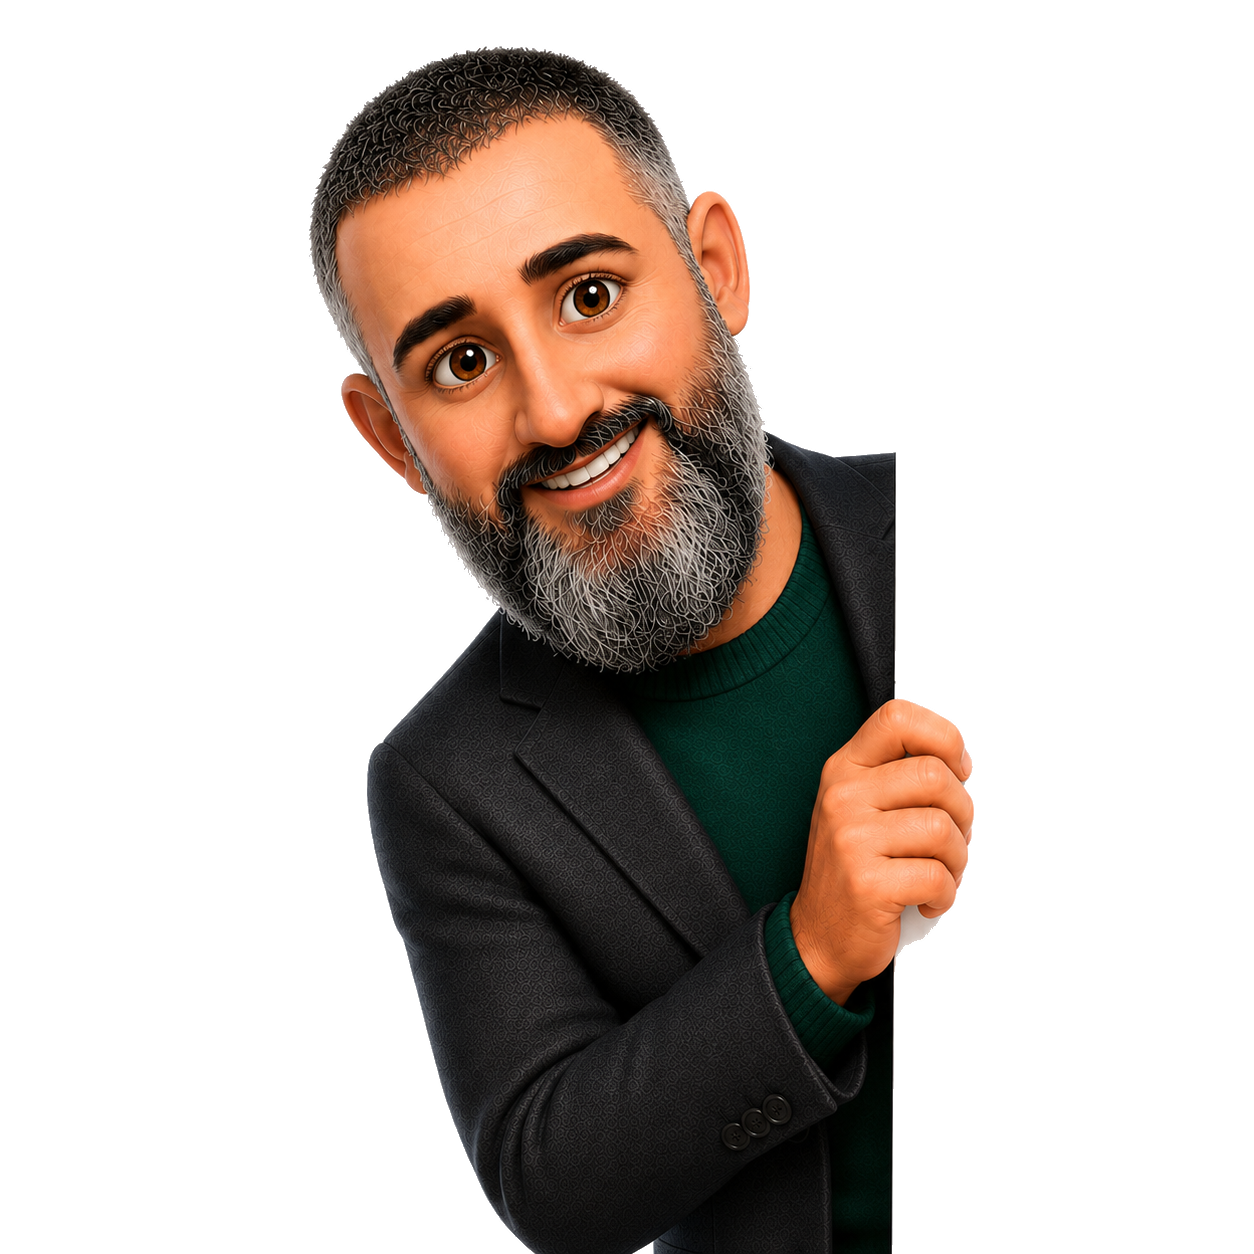
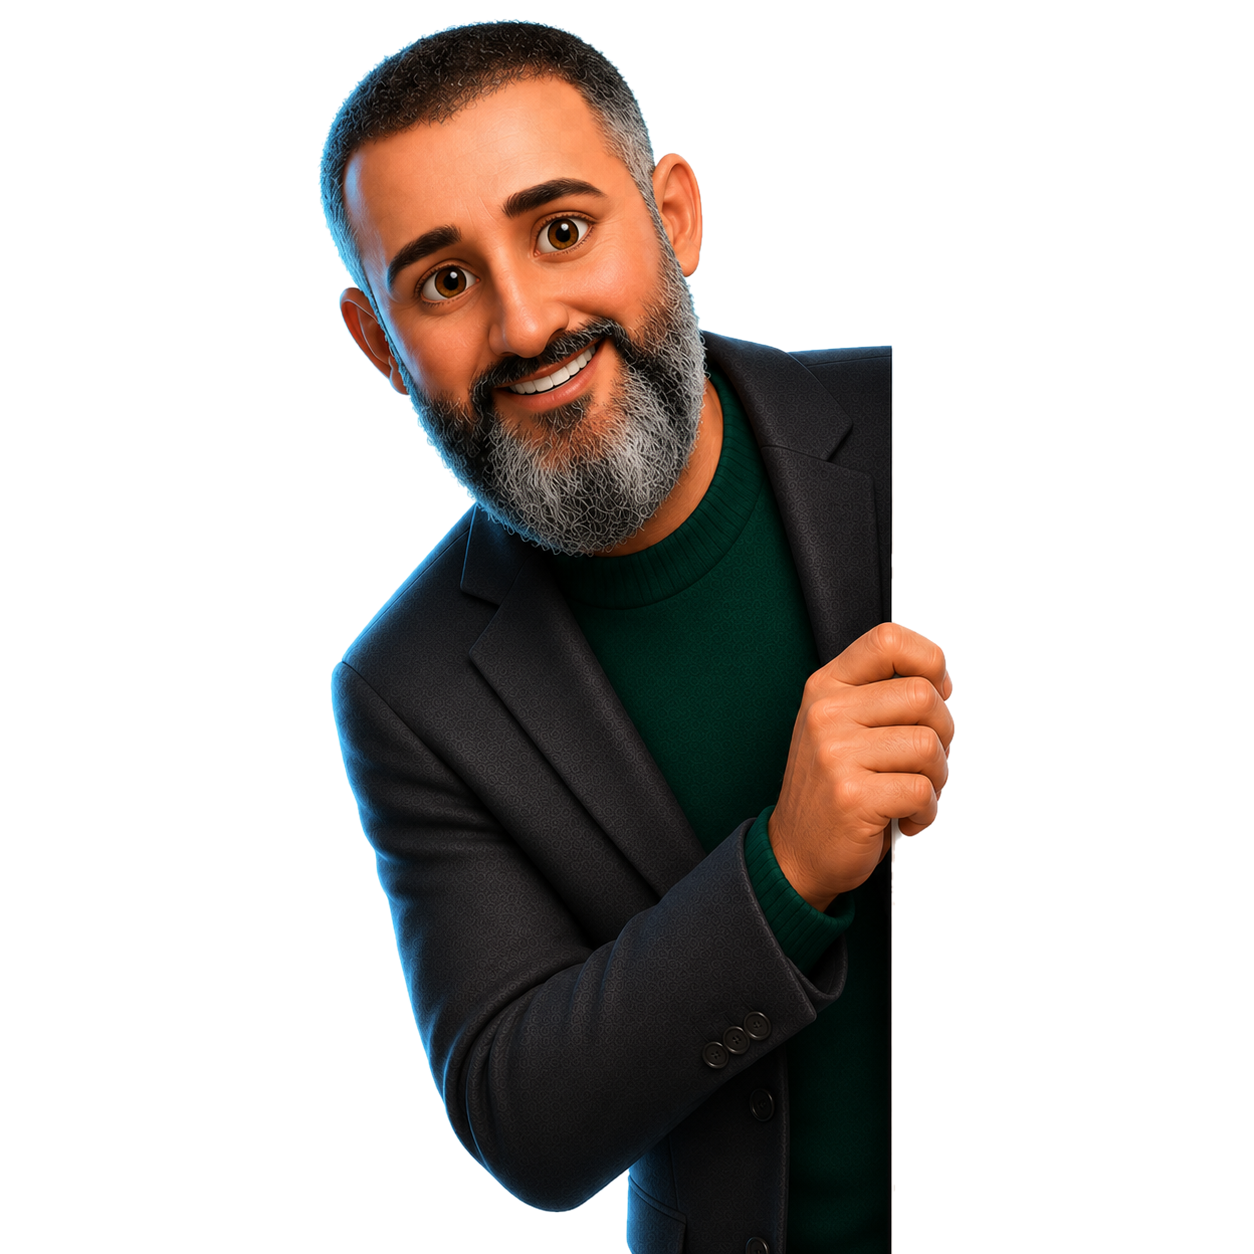
feat(ai-course): add chapter 5 holographic mentor pose and refresh mentor assets

Changed region(s): [[0.2488, 0.0, 0.7775, 1.0], [0.6531, 0.9641, 0.6842, 1.0]]

diff --git a/components/ai-internals/Mentor.tsx b/components/ai-internals/Mentor.tsx
@@ -35,6 +35,7 @@ export type MentorPose =
     | 'plausiblePaths'
     | 'answerBuilder'
     | 'holographic'
+    | 'holographicUi'
     | 'mapNavigator'
     | 'meaningSpace';
 
@@ -74,6 +75,9 @@ const POSE_SRC: Record<MentorPose, string> = {
     // פוזת פרק 1 (המעבדה השקופה): המנטור חושף מנוע AI הולוגרפי בין השאלה לתשובה.
     // נכס landscape רחב, שונה מהפוזות הפורטרט. בשימוש בפרק 1 בלבד.
     holographic: '/assets/mentor_holographic.png',
+    // פוזת הירו של פרק 5 (המרחב הסמנטי): המנטור מחזיק אשכולות מושגים הולוגרפיים
+    // ומצביע על קבוצות מילים קרובות במשמעות. נכס שקוף. בשימוש בהירו של פרק 5 בלבד.
+    holographicUi: '/assets/mentor-holographic-ui-transparent-alpha.png',
     // פוזת מבוא (מפת המנוע): המנטור מלווה את מפת התחנות מהטקסט עד התשובה ופותח אותה
     // ללומד. נכס שקוף (ללא מסכה לבנה). בשימוש במבוא בלבד.
     mapNavigator: '/assets/mentor_map_navigator.png',

diff --git a/app/behind-the-scenes-ai/chapter-5/page.tsx b/app/behind-the-scenes-ai/chapter-5/page.tsx
@@ -255,7 +255,7 @@ export default function BehindTheScenesChapter5() {
                 </motion.section>
                 {/* מנטור: כל משפט מקבל מקום במפה (xl+, צד חיצוני לפי כיוון) */}
                 <div className={`absolute top-1/2 -translate-y-1/2 ${isRtl ? 'left-full ml-3 2xl:ml-6' : 'right-full mr-3 2xl:mr-6'} z-20 hidden xl:block pointer-events-none`}>
-                    <Mentor pose="meaningSpace" line={c5.mentor.hero} width={248} flip={!isRtl} />
+                    <Mentor pose="holographicUi" line={c5.mentor.hero} width={248} flip={!isRtl} />
                 </div>
             </div>
 
